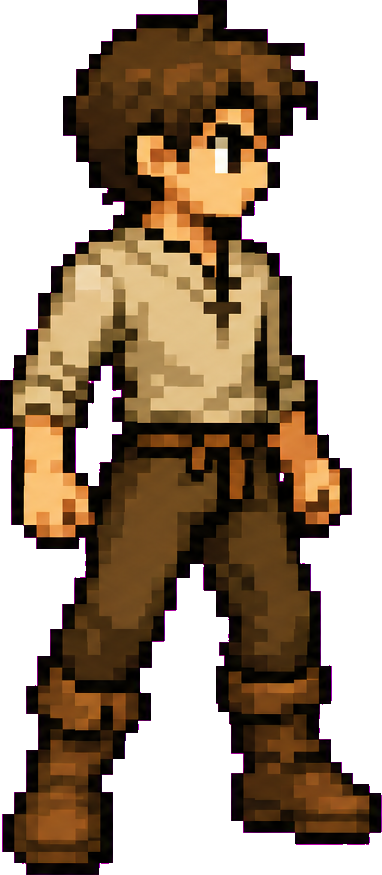
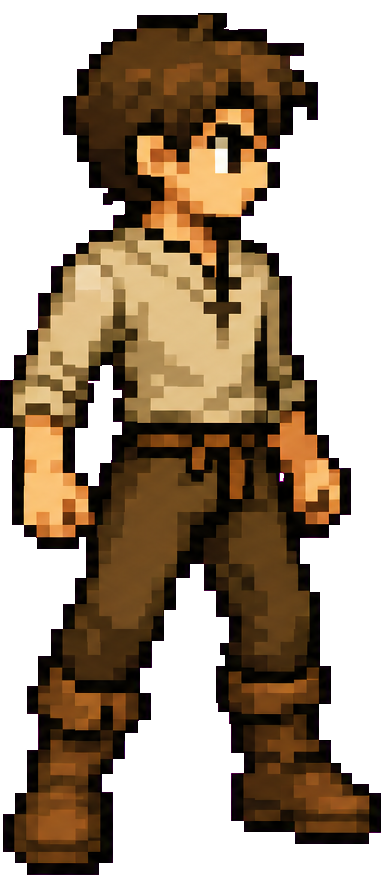
Add hair/helmet head layering and ground shadows for actors
Split the delver into a body, separate hair sheet, and bald base so
full-coverage helmets hide the hair (HeadStyle.FULL) while open headgear
keeps it. Layer paper-doll gear by slot, add a shared ground shadow under
every actor, and center the loadout preview. Includes the hair-splitting
helper script and manually retouched hero PNGs.

diff --git a/capture/split_delver_hair.py b/capture/split_delver_hair.py
@@ -1,0 +1,62 @@
+#!/usr/bin/env python3
+"""Split delver_body.png into a bald base + hair overlay (same 389x906 canvas).
+
+Run from repo root:
+  python3 capture/split_delver_hair.py
+
+Requires: python3 -m venv .venv && .venv/bin/pip install pillow
+"""
+from __future__ import annotations
+
+from pathlib import Path
+
+try:
+    from PIL import Image
+except ImportError as exc:
+    raise SystemExit(
+        "Pillow is required. Try: python3 -m venv .venv && .venv/bin/pip install pillow"
+    ) from exc
+
+ROOT = Path(__file__).resolve().parents[1]
+BODY = ROOT / "art/portraits/delver_body.png"
+HAIR_OUT = ROOT / "art/portraits/delver_hair.png"
+BALD_OUT = ROOT / "art/portraits/delver_body_bald.png"
+
+
+def is_skin(r: int, g: int, b: int, a: int) -> bool:
+    return a > 40 and r > 125 and g > 90 and b > 70
+
+
+def main() -> None:
+    body = Image.open(BODY).convert("RGBA")
+    w, h = body.size
+    pixels = body.load()
+    hair = Image.new("RGBA", (w, h), (0, 0, 0, 0))
+    hair_px = hair.load()
+    bald = body.copy()
+    bald_px = bald.load()
+
+    def is_hair(x: int, y: int, r: int, g: int, b: int, a: int) -> bool:
+        if a < 25 or y > 268:
+            return False
+        if is_skin(r, g, b, a):
+            return False
+        if 155 <= x <= 295 and 95 <= y <= 205 and (r + g + b) < 260:
+            return False
+        return y < 265 and r < 145 and g < 125 and b < 110
+
+    for y in range(h):
+        for x in range(w):
+            r, g, b, a = pixels[x, y]
+            if is_hair(x, y, r, g, b, a):
+                hair_px[x, y] = (r, g, b, a)
+                bald_px[x, y] = (0, 0, 0, 0)
+
+    hair.save(HAIR_OUT)
+    bald.save(BALD_OUT)
+    print(f"Wrote {HAIR_OUT.name} bbox={hair.getbbox()}")
+    print(f"Wrote {BALD_OUT.name}")
+
+
+if __name__ == "__main__":
+    main()
